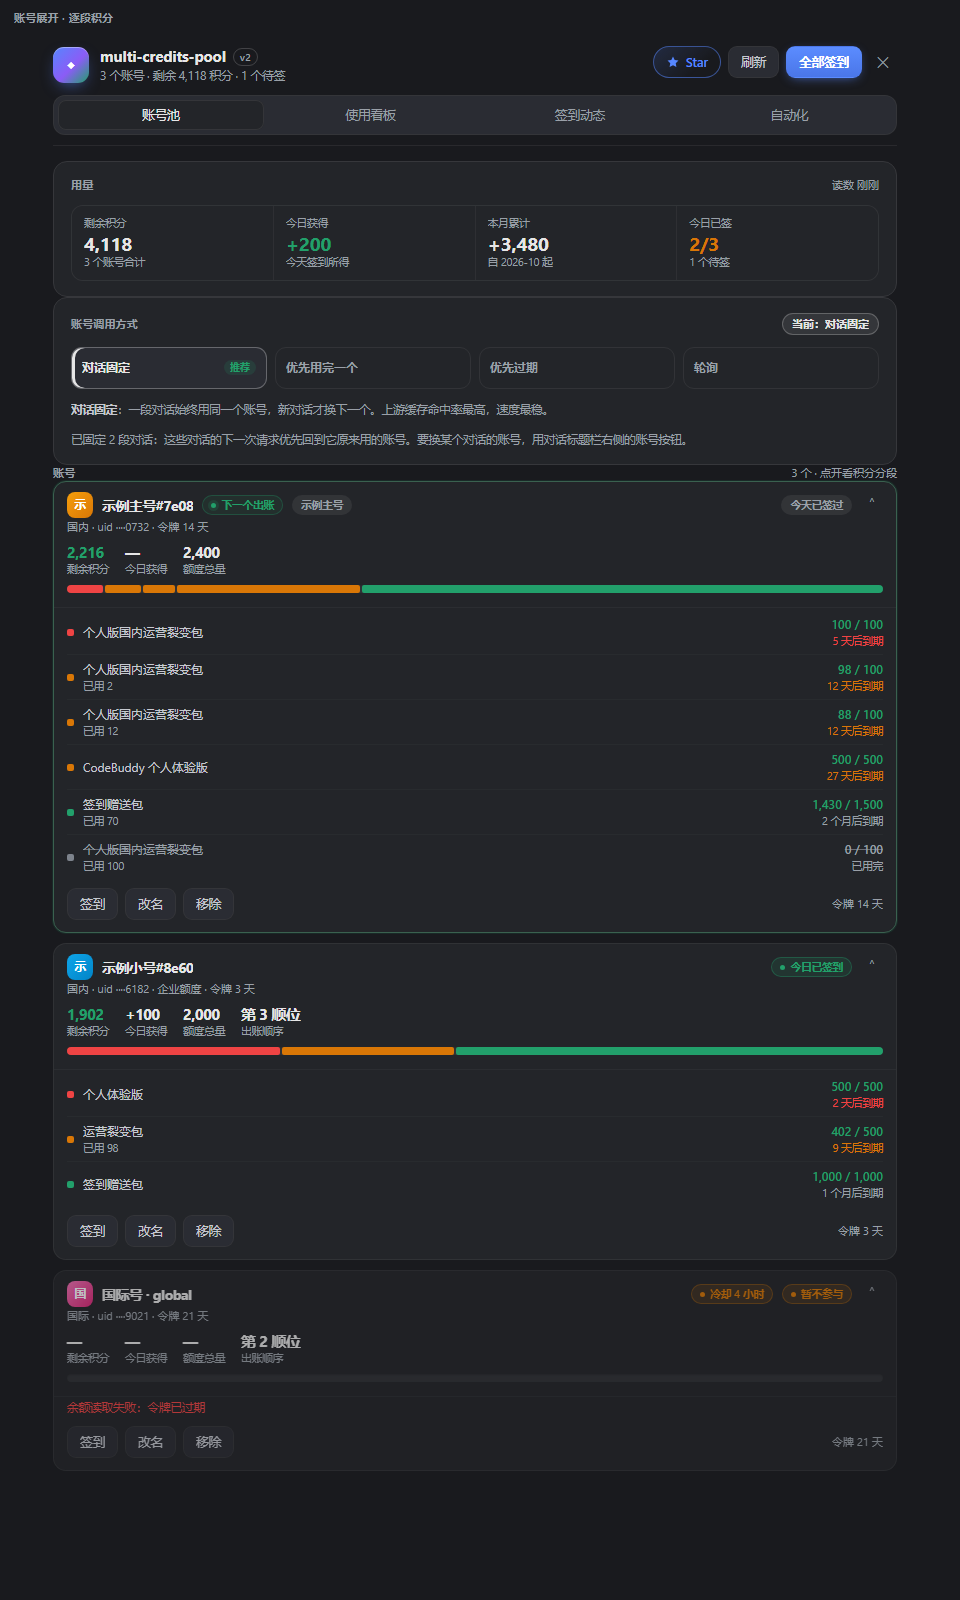
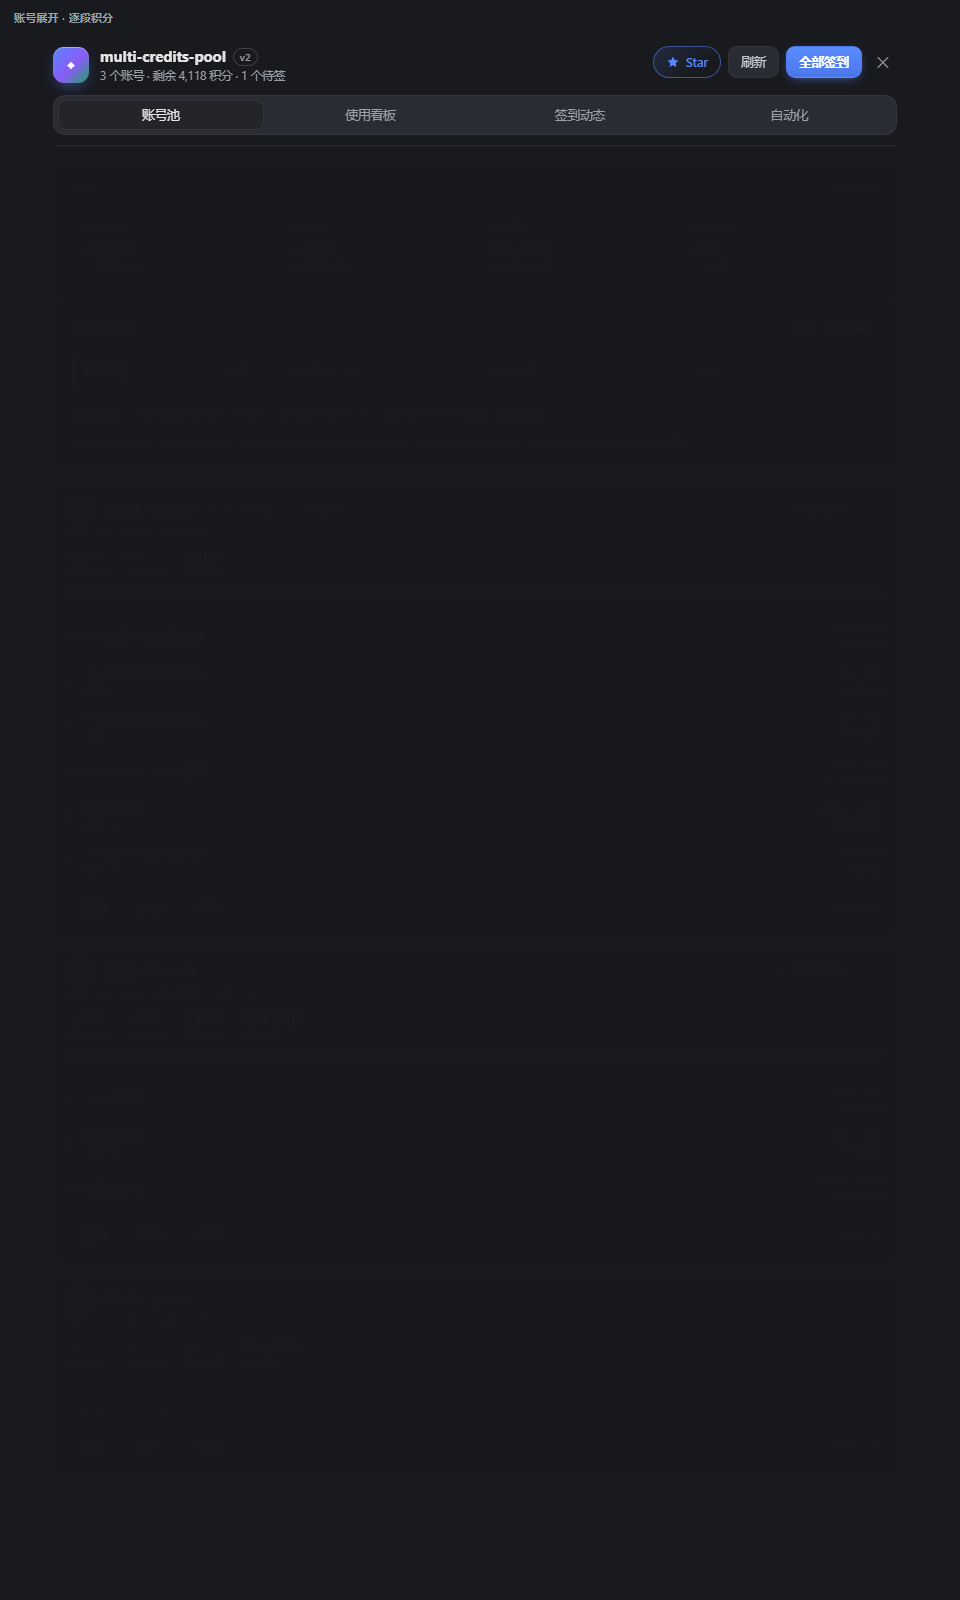
修复使用看板换档不生效

diff --git a/client.js b/client.js
@@ -1622,15 +1622,25 @@ window.__ModuleLoader__.load({
 			const [autoCheckin, setAutoCheckin] = react.useState(true)
 			const [timeText, setTimeText] = react.useState(minuteText(600))
 
+			// 连续换档时前一次的响应可能后到：记一个序号，只认最后一次发出的那一次，
+			// 否则刚点「近一个月」又被回得慢的「昨天」盖回去。
+			const latestRequest = react.useRef(0)
+
 			const refresh = react.useCallback(async nextRange => {
+				const ticket = latestRequest.current + 1
+				latestRequest.current = ticket
 				try {
 					const next = await loadSharedState(nextRange)
+					// 已经被更新的请求顶掉了，这次的结果作废。
+					if (latestRequest.current !== ticket) return undefined
 					setState(next)
 					setAutoCheckin(next.config.autoCheckin === true)
 					setTimeText(minuteText(next.config.minuteOfDay))
 					setError(undefined)
 					return next
 				} catch (failure) {
+					// 同样只让最后一次请求的失败落在界面上。
+					if (latestRequest.current !== ticket) return undefined
 					setError(failure instanceof Error ? failure.message : String(failure))
 					return undefined
 				}
@@ -1648,7 +1658,8 @@ window.__ModuleLoader__.load({
 
 			// 换档要重新拉状态：时间轴由服务端按档位铺格，前端只负责画。
 			// 首屏那次已经按档位取过数，这里跳过；但档位从面板传进来、且面板自己拉
-			// 数据时用的也是同一个档位，所以两边不会打架。
+			// 数据时用的也是同一个档位，所以两边不会打架。回跳时也按当前档位重拉一次，
+			// 免得拿后台刷新那份默认档的数据作数。
 			const firstRangeSkipped = react.useRef(false)
 			react.useEffect(() => {
 				if (firstRangeSkipped.current === false) {
@@ -1811,9 +1822,13 @@ window.__ModuleLoader__.load({
 		 */
 		function MultiCreditsPoolPanel(props) {
 			const wide = props?.variant === 'panel'
-			// 预览与断言只做一次静态渲染，拿不到换成「近一周」之后的第二次响应，所以
-			// 首屏直接按请求的档位去拿数据；交互里换档仍走 refresh(range)。
-			const data = usePanelState({ range: USAGE_RANGES.some(item => item.id === props?.initialRange) ? props.initialRange : DEFAULT_USAGE_RANGE })
+			// 预览与断言只做一次静态渲染，拿不到第二次响应，所以首屏就按请求的档位取数；
+			// 交互里换档由 `usePanelState` 的换档副作用重新拉。档位必须放在取数之前，
+			// 取数读的就是这个状态。
+			const [range, setRange] = react.useState(USAGE_RANGES.some(item => item.id === props?.initialRange) ? props.initialRange : DEFAULT_USAGE_RANGE)
+			// 档位要喂给取数：`usePanelState` 按这个值重新拉状态，时间轴由服务端按档位铺格。
+			// 这里传常量的话四个按钮点下去都只会拿到同一份时间轴。
+			const data = usePanelState({ range })
 			const status = data.state?.status
 			const totals = status?.totals
 			const rows = status?.rows ?? []
@@ -1829,9 +1844,7 @@ window.__ModuleLoader__.load({
 			const [renaming, setRenaming] = react.useState(
 				typeof props?.initialRename === 'string' ? { id: props.initialRename, draft: rows.find(row => row.id === props.initialRename)?.label } : undefined,
 			)
-			// 「按时间」卡片的两处交互状态：选中的档位、点开的格子。放这里而不是卡片里，
-			// 是因为换页签回来要保留住用户刚选的档位。
-			const [range, setRange] = react.useState(USAGE_RANGES.some(item => item.id === props?.initialRange) ? props.initialRange : DEFAULT_USAGE_RANGE)
+			// 「按时间」卡片要点的那个格子。档位在上面（取数要用它），这里只留格子。
 			const [pickKey, setPickKey] = react.useState(
 				typeof props?.initialPick === 'string' ? props.initialPick : undefined,
 			)

diff --git a/docs/实现文档.md b/docs/实现文档.md
@@ -541,6 +541,7 @@ retryPolicy: {
   - 失败按「账号尝试」计数：一次对话换了号重试，两个账号各记一条失败，所以悬停文案后面注明「换号重试记在各自账号上」。
   - 悬停给出这一段的完整读数（时间桶、次数、失败数、输入输出 token），点一下把这一段固定在卡片下方展开按模型的分布，再点一次收起。换档会清掉已固定的段，以免新旧时间轴的 key 对不上。
   - 卡片头的汇总行写窗口内总数、失败数与最忙的那一段。
+  - 换档在面板顶层发生：档位状态放在取数之前，`usePanelState({ range })` 拿它去拼 `?range=`，所以点哪一档就按哪一档重新拉 `/state`，印章、圆心、时间格与图例一起换。连续换档时 `usePanelState` 用请求序号作废过期回包——先发的慢响应回来时序号已经对不上，直接丢弃，界面停在最后点的那一档。
 - 没有任何流水时给一句引导，而不是空白卡片。
 
 签到动态页读 `recent`：最多 8 条签到流水，带相对时间、账号名、结果与所得。
@@ -639,7 +640,7 @@ retryPolicy: {
 - `tools/web-api-test.mjs` 用真 HTTP 服务器挂上两个 handler，验证守卫、状态文档形状、动作分发与 `strategy` 切换（落盘、回执、热切换回调、非法值被拒），以及模型可见性（清单进状态文档、勾选落盘存的是被勾掉的 id、空勾选被拒、手动刷新的回执与失败回执、两个动作都触发重登记）。共 37 项。
 - `tools/model-catalog-test.mjs` 验证上游清单的解析与写回：按 CLI 段顺序输出、只登记 CLI 段、字段映射、`disabled` 与缺上限的过滤、六种拿不到清单的回退、可见集合的取反与全勾掉时退回完整清单、写回时的清单/时间/区域/隐藏项清理与密钥保留、旧 `plugin.json` 补出新字段。共 31 项。
 - `tools/client-test.mjs` 用假槽位服务验证浏览器半边的注册契约：卡片、侧边栏入口、中栏看板、对话头部选择器四处注册与开关行为，以及标题用新名字；另验改名不调用 `window.prompt`、走面板内的输入框，以及顶栏星标取自 `REPO_URL` 常量、外链带 `noopener noreferrer`。共 37 项。
-- `tools/ui-test.mjs` 用 `tools/render-harness.mjs` 把 `client.js` 真跑一遍拿到渲染结果，断言界面事实：三张账号卡、额度条只算有余额的段、段宽按剩余量分配且权重归一、红/琥珀/绿三色按到期紧迫度、圆点与条子同色、`已用 98` 存在而 `已用 0` 不出现、用完的段标「已用完」、同名套餐不合并（四份裂变包各占一行）、失败账号的报错只出现一次且不再补一句空分段提示、四种调用方式齐备且 `data-active` 唯一、四种方式的悬停说明都在、使用看板的指标与按账号按模型的分段、对话头部选择器的收起态与展开菜单、侧边栏入口显示积分与已签数；布局三条：面板根节点自己承担滚动、内容层限宽居中、顶栏吸顶，以及设置卡片退掉这三层；顶栏星标九条：链接指向仓库、新窗口打开、带悬停说明、星形路径、位于顶栏操作区首位、排在刷新与签到之前、样式进了样式表、描边与图标用品牌色；改名就地编辑六条：输入框出现并预填当前账号名、占位文案、保存与取消按钮齐备、被编辑的账号不再显示改名按钮、所在抽屉自动展开、输入框样式进了样式表；模型选择五条：卡片出现、清单每个模型一个勾选框且勾选态正确、给的是原生 checkbox、勾选数量与更新时间文案、没有清单时不铺空列表只提示去更新；按时间环形饼图十七条：铺出 `credits-donut-svg` 与 168×168 画布、有内容的六格各占一段扇区、没有请求的格子不占角度、每段都是内外两条圆弧之间的闭环路径、不再出现按天下拉的柱子、默认近一周、圆心写明总数 148 与档位名、空档有单独交代、环底有浅色虚线、三种色调各就位、扇区带逐段明细悬浮说明、扇区可点可聚焦、图例从多到少排列且最多六条；指定 `initialPick` 时点开的段高亮并在下方展开模型分布。共 110 项。
+- `tools/ui-test.mjs` 用 `tools/render-harness.mjs` 把 `client.js` 真跑一遍拿到渲染结果，断言界面事实：三张账号卡、额度条只算有余额的段、段宽按剩余量分配且权重归一、红/琥珀/绿三色按到期紧迫度、圆点与条子同色、`已用 98` 存在而 `已用 0` 不出现、用完的段标「已用完」、同名套餐不合并（四份裂变包各占一行）、失败账号的报错只出现一次且不再补一句空分段提示、四种调用方式齐备且 `data-active` 唯一、四种方式的悬停说明都在、使用看板的指标与按账号按模型的分段、对话头部选择器的收起态与展开菜单、侧边栏入口显示积分与已签数；布局三条：面板根节点自己承担滚动、内容层限宽居中、顶栏吸顶，以及设置卡片退掉这三层；顶栏星标九条：链接指向仓库、新窗口打开、带悬停说明、星形路径、位于顶栏操作区首位、排在刷新与签到之前、样式进了样式表、描边与图标用品牌色；改名就地编辑六条：输入框出现并预填当前账号名、占位文案、保存与取消按钮齐备、被编辑的账号不再显示改名按钮、所在抽屉自动展开、输入框样式进了样式表；模型选择五条：卡片出现、清单每个模型一个勾选框且勾选态正确、给的是原生 checkbox、勾选数量与更新时间文案、没有清单时不铺空列表只提示去更新；按时间环形饼图十七条：铺出 `credits-donut-svg` 与 168×168 画布、有内容的六格各占一段扇区、没有请求的格子不占角度、每段都是内外两条圆弧之间的闭环路径、不再出现按天下拉的柱子、默认近一周、圆心写明总数 148 与档位名、空档有单独交代、环底有浅色虚线、三种色调各就位、扇区带逐段明细悬浮说明、扇区可点可聚焦、图例从多到少排列且最多六条；指定 `initialPick` 时点开的段高亮并在下方展开模型分布；换档六条：四档按钮都带点击处理、点「今天」后按 `?range=today` 重新取数、档位按钮跟着点亮、圆心换成新档位的数字、环上换成新档位的时间格、连点时界面停在最后点的那个档位。共 116 项。
 - `tools/pin-usage-test.mjs` 验证手动固定与使用流水：固定的账号排在队首、不随闲置过期、冷却时让位、解绑与删号后的清理、`pins.json` 落盘往返；`usage-log.jsonl` 的追加与读取、按窗口与账号/模型聚合、坏行跳过；时间轴的四个档位（七格 / 30 格 / 今天按小时 / 昨天只含昨天、不铺未到的小时、认不出档位退近一周）、每格的请求与失败计数、按模型的分布、超出窗口的旧记录不计入；以及 Web 接口的 `pin`/`unpin` 动作与 `/state` 的 `pins`、`usage` 段。共 45 项。
 - `tools/effort-fallback-test.mjs` 验证推理档位被 `11150` 拒绝时的降级重发链与次数上限。共 9 项。
 - `tools/upstream-probe.mjs` 用真实账号直接对上游发一条带 `tools` 的请求，确认回包是 OpenAI 形状（`reasoning_content`、`tool_calls`、`finish_reason: "tool_calls"`、`usage`、`[DONE]`），用来证明代理不需要做响应体转换。

diff --git a/TESTING.md b/TESTING.md
@@ -99,7 +99,7 @@ node tools\ui-test.mjs
 - `tools/rotation-test.mjs`：26 项全过。故障转移的顺序、冷却时长、用量流水落盘，以及上游中途断流时只记一条 `ok:false`、不抛出未捕获异常。
 - `tools/strategy-test.mjs`：31 项全过。四种账号调用方式的选号顺序、热切换后立即生效、非法模式被拒。
 - `tools/pin-usage-test.mjs`：45 项全过。手动固定与自动绑定的优先级、账号删除后固定自动解除、按账号 × 模型的用量聚合；时间轴四个档位的格数与切法（近一周七格、近一个月 30 格、今天按小时且只铺到当前小时、昨天 24 格且不含今天、认不出的档位退回近一周）、每格的请求数与失败数、按模型的分布、超出窗口的旧记录不计入。
-- `tools/ui-test.mjs`：110 项全过。渲染 `client.js` 的真组件，断言四个页签、账号卡、分段额度条、使用看板与选择器的结构与文案，以及改名就地编辑（输入框预填当前账号名、保存与取消、被编辑的账号不再显示改名按钮、输入框样式已进样式表）、顶栏星标（指向仓库、新窗口打开、星形路径、排在刷新与签到之前、样式用品牌色）；模型选择卡片按清单铺出勾选框、勾选态与原生 `checkbox` 一致、卡片给出勾选数量与清单更新时刻、没有清单时不铺空列表而提示去更新；按时间环形饼图十七条：铺出 168×168 的 SVG、有内容的六格各占一段扇区、没有请求的格子不占角度、每段都是内外两条圆弧之间的闭环路径、不再出现按天下拉的柱子、默认近一周、圆心写明总数 148 与档位名、空档有单独交代、环底有浅色虚线、三种色调各就位、扇区带逐段明细悬浮说明、扇区可点可聚焦、图例从多到少排列且最多六条；指定 `initialPick` 时点开的段高亮并在下方展开模型分布。
+- `tools/ui-test.mjs`：116 项全过。渲染 `client.js` 的真组件，断言四个页签、账号卡、分段额度条、使用看板与选择器的结构与文案，以及改名就地编辑（输入框预填当前账号名、保存与取消、被编辑的账号不再显示改名按钮、输入框样式已进样式表）、顶栏星标（指向仓库、新窗口打开、星形路径、排在刷新与签到之前、样式用品牌色）；模型选择卡片按清单铺出勾选框、勾选态与原生 `checkbox` 一致、卡片给出勾选数量与清单更新时刻、没有清单时不铺空列表而提示去更新；按时间环形饼图十七条：铺出 168×168 的 SVG、有内容的六格各占一段扇区、没有请求的格子不占角度、每段都是内外两条圆弧之间的闭环路径、不再出现按天下拉的柱子、默认近一周、圆心写明总数 148 与档位名、空档有单独交代、环底有浅色虚线、三种色调各就位、扇区带逐段明细悬浮说明、扇区可点可聚焦、图例从多到少排列且最多六条；指定 `initialPick` 时点开的段高亮并在下方展开模型分布；换档六条：四档按钮都带点击处理、点「今天」后按 `?range=today` 重新取数、档位按钮跟着点亮、圆心换成新档位的数字、环上换成新档位的时间格、连点时界面停在最后点的那个档位。
 
 ## 过程中发现并修掉的问题
 
@@ -149,4 +149,5 @@ node tools\ui-test.mjs
 | 清单刷新了，选择器还是旧的 | 登记 provider 走的是启动时读到的那份 `config`，`modelsOf()` 却每次重读文件，两者不同源。真机现象：`boot.log` 里 `catalog-refreshed models=19`，`GET /v1/models` 仍回 16 条旧模型，`hy3-x` 也还在 | 引入进程内 `live` 状态：刷新写回后与勾选变更都更新它，`modelsOf`、重登记用的 profile、卸载时删的 provider 统一从 `live` 取；`plugin-test.mjs` 补两项断言钉住同源 |
 | 看板只按天看，看不出一天里什么时候在跑 | 原来是「按天」柱状图，只有一根柱子一天的量，没法回答「今天上午还是下午用得多」；也没法只看昨天或拉长到一个月 | 加昨天 / 今天 / 近一周 / 近一个月四档：小时档 24 格、天档 7 格或 30 格，今天只铺到当前小时；`pin-usage-test.mjs` 补十三项钉住铺格 |
 | 一排圆点看不出各时段占多少 | 圆点只能表达「这格多不多」，说不出「这段时间占了多少」，也没法一眼比出份额 | 改成环形饼图：整圈按各段请求数切扇区，段间留按角度算的缝，圆心写总数与档位，右侧图例从多到少列出占比；没有请求的时段不占角度，另外用一句说明与环底虚线交代；`ui-test.mjs` 补十七条环形断言 |
+| 四个时间档点了效果都一样 | 面板里有两个 `range`：卡片头那个才是用户点的，喂给 `usePanelState` 的却是另一个取常量初值的同名状态。请求串永远是同一个 `?range=`，所以点哪一档回来的都是同一份数据 | 把档位状态提到取数之前，`usePanelState({ range })` 直接吃它；`usePanelState` 里加请求序号，慢回来的旧档响应作废，界面不会被覆盖；`ui-test.mjs` 补六项换档断言（含连点两档） |
 | 改了代码刷新页面没效果 | 宿主把插件模块缓存在进程内（ESM 模块表），磁盘上已换新文件而 `/state` 仍按旧结构返回 | 改完插件要完全退出 DSH 再启动；`/state` 的返回里有没有新字段可作判据（例如时间轴改版后先看 `usage.timeline` 是否出现） |

diff --git a/docs/使用说明.md b/docs/使用说明.md
@@ -221,7 +221,7 @@ Get-Content "$env:USERPROFILE\.dsh\profiles\desktop\.multi-credits-pool\boot.log
 | 账号调用方式 | 四个分段按钮：对话固定 / 优先用完一个 / 优先过期 / 轮询，当前模式高亮，鼠标移上去每个按钮都展开这个模式的取舍，下面一行同步显示说明 |
 | 账号卡 | 收起时：账号名与区域、今日状态胶囊、今日所得、冷却剩余、大号剩余积分、分段额度条、最早一段还有几天到期；点整卡展开 |
 | 积分明细 | 点开账号卡后展开：逐段列出每一段积分——套餐名、剩余与总量、到期时间、距作废还有多久，以及「签到」「改名」「移除」。点「改名」在这一行就地换成输入框，改完按 Enter 或点「保存」，Esc 或「取消」放弃 |
-| 使用看板 | 四个指标（请求总数、失败请求、输入 token、输出 token）+ 按账号一行一段（每个账号一行，下面按模型拆成彩色分段与「模型：次数」的标签）+ 按时间环形饼图：一整圈是窗口内的全部请求，每段扇区是一个时间段、角度按请求数占比分；右上角切昨天 / 今天 / 近一周 / 近一个月，圆心写总数与档位，右侧图例按次数从多到少列出占比；品牌色是全成功、琥珀是偶有失败、红色是失败过半；悬停看这一段的次数与 token，点一下在下方展开按模型的分布 |
+| 使用看板 | 四个指标（请求总数、失败请求、输入 token、输出 token）+ 按账号一行一段（每个账号一行，下面按模型拆成彩色分段与「模型：次数」的标签）+ 按时间环形饼图：一整圈是窗口内的全部请求，每段扇区是一个时间段、角度按请求数占比分；右上角切昨天 / 今天 / 近一周 / 近一个月，点哪一档就按哪一档重新取数，圆心、环上的格子与图例一起换，圆心写总数与档位，右侧图例按次数从多到少列出占比；品牌色是全成功、琥珀是偶有失败、红色是失败过半；悬停看这一段的次数与 token，点一下在下方展开按模型的分布 |
 | 最近动态 | 最多 8 条签到流水，带相对时间与所得 |
 | 控制行 | 每日自动签到开关、签到时刻（按 UTC+8 解释）、添加国内/国际账号 |
 | 模型选择 | 勾选哪些模型出现在 DSH 的模型选择器里；卡片头部显示清单上次更新时刻，旁边「立即更新」手动刷新 |
